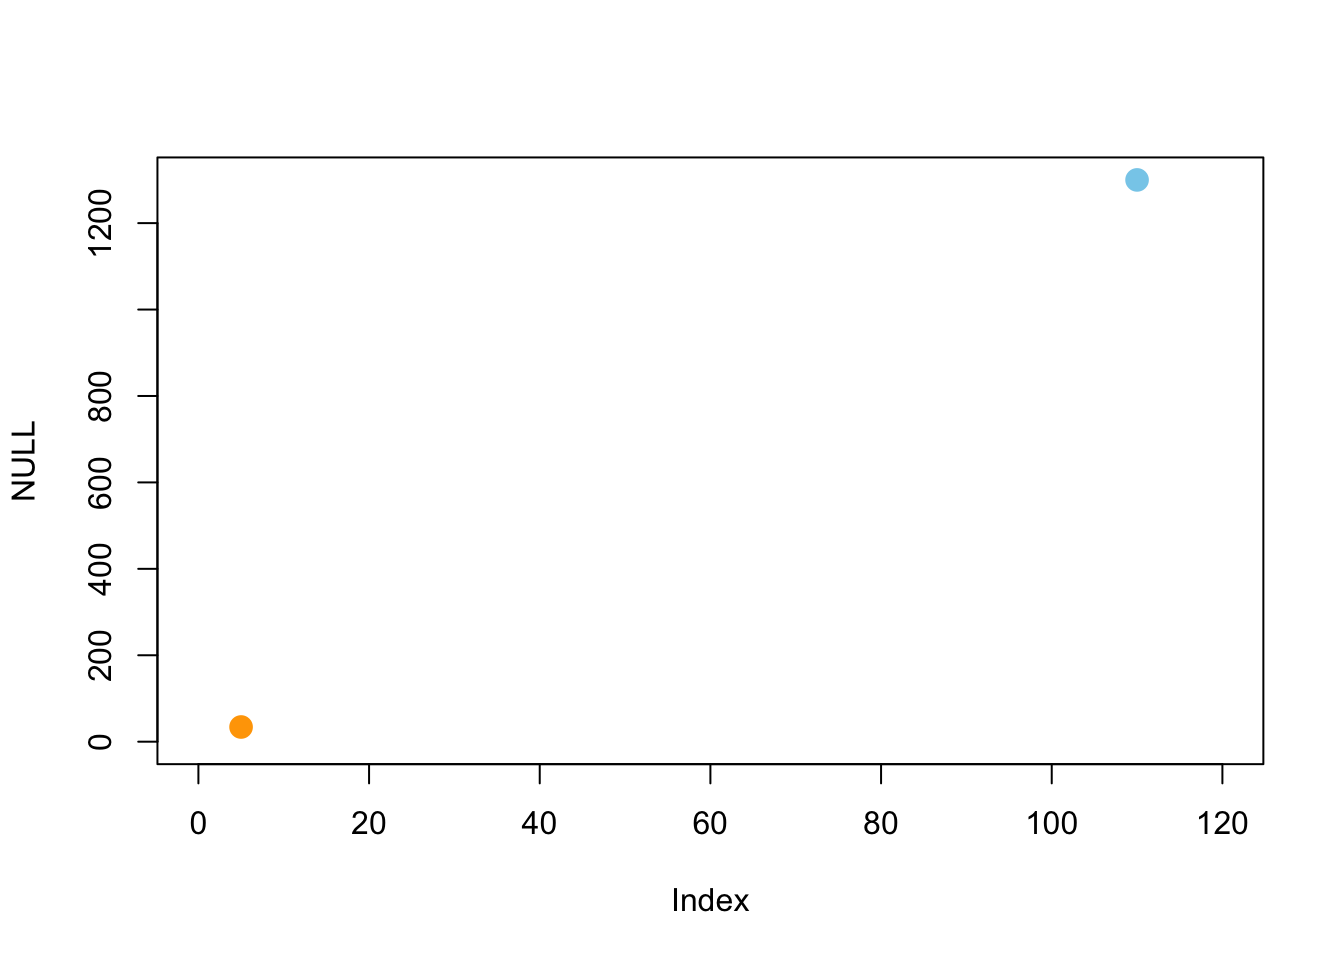
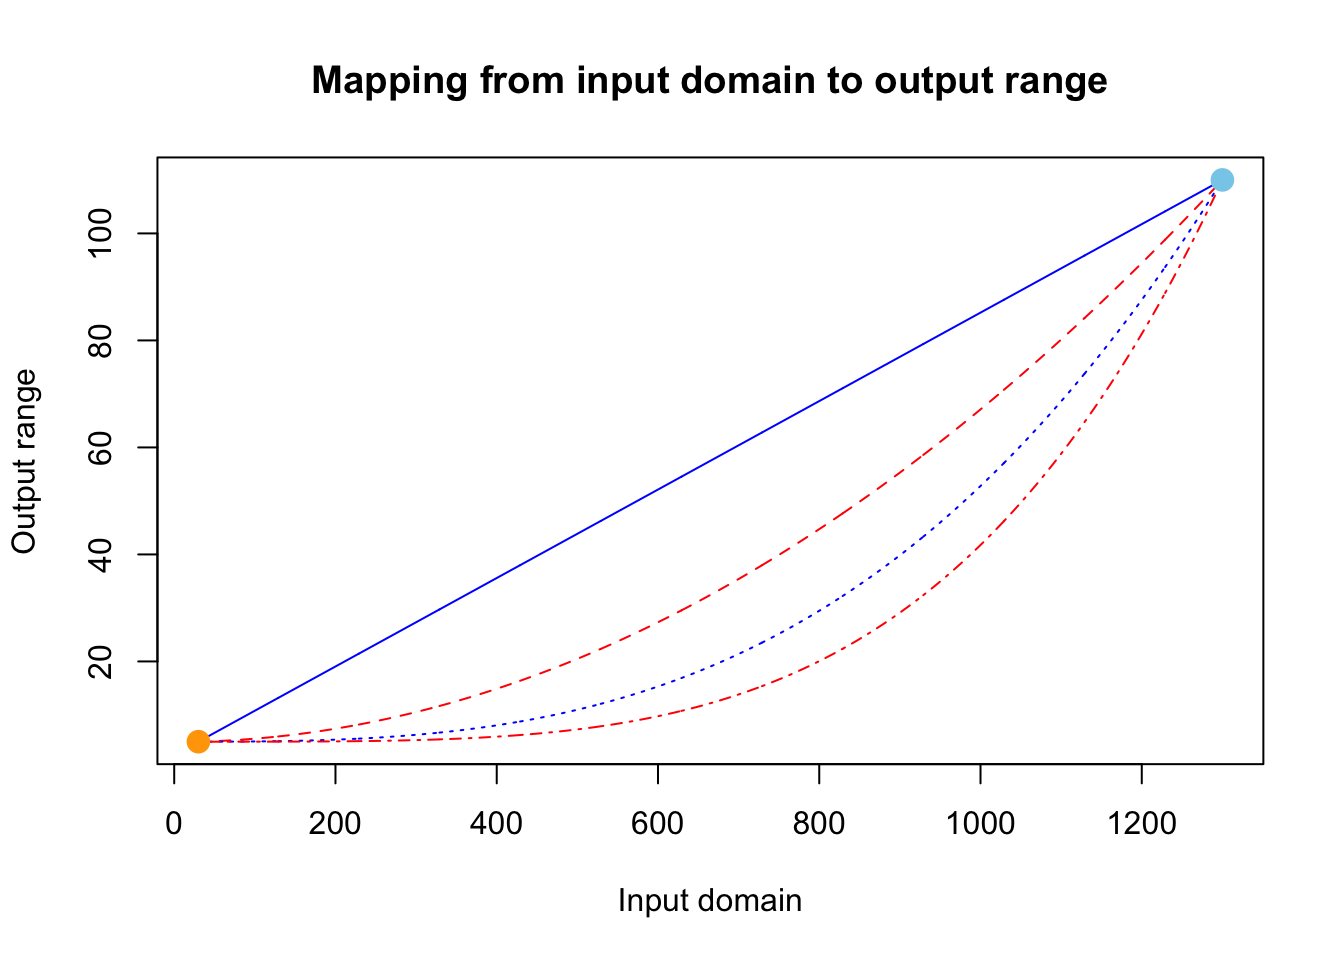
Rebuilding site Tue Sep  8 17:42:26 EDT 2020

diff --git a/public/en/2020/09/07/d3-scales/index.html b/public/en/2020/09/07/d3-scales/index.html
@@ -102,12 +102,12 @@
 <p>Before I move on, I’d like to specify two most important points I realized about D3 scales:</p>
 <ol style="list-style-type: decimal">
 <li><p>The essence of D3 scales is <strong><em>interpolation</em></strong> between two known points;</p></li>
-<li><p>D3 scales is supposed to capture <strong><em>relative positions</em></strong>, not <strong><em>absolute values</em></strong>.</p></li>
+<li><p>D3 scales are supposed to capture <strong><em>relative positions</em></strong>, not <strong><em>absolute values</em></strong>.</p></li>
 </ol>
 <div id="why-bother-using-d3-scales-couldnt-we-plot-it-directly" class="section level2">
 <h2>Why Bother Using D3 Scales? Couldn’t We Plot It Directly?</h2>
 <p>Well, the thing is, sometimes the numbers are so big that we don’t have enough pixels to plot them directly.</p>
-<p>For example, suppose we have this dataset, [34, 59, 109, 544, 1299], and we are going to plot a bar chart of this data. It would be best if we can draw it directly: five bars whose height (in pixels) is equal to the corresponding data value. The first bar will be 34 px tall, the second 59 px … the last bar 1299 px. For this dataset, it might be Okay to plot it this way. However, if we had another number, 999999, it would be impossible to draw a bar whose height is <code>999999px</code> simply because we don’t have such a big screen. That’s why we need to input domain and output range, both of which are basically intervals.</p>
+<p>For example, suppose we have this dataset, [34, 59, 109, 544, 1299], and we are going to <strong>plot a bar chart of this data</strong>. It would be best if we can draw it directly: five bars whose height (in pixels) is equal to the corresponding data value. The first bar will be 34 px tall, the second 59 px … and the last 1299 px. For this dataset, it might be Okay to plot it this way. However, if we had another number, 999999, it would be impossible to draw a bar whose height is <code>999999px</code> simply because we don’t have such a big screen. That’s why we need to input domain and output range, both of which are basically intervals.</p>
 </div>
 <div id="what-are-input-domain-and-output-range" class="section level2">
 <h2>What are Input Domain and Output Range?</h2>
@@ -117,18 +117,23 @@
 <div id="how-do-the-input-domain-and-output-range-work" class="section level2">
 <h2>How do the input domain and output range work?</h2>
 <p>What we are certain now is that the minimum (the starting point) in the input domain should also be the minimum (the starting point) of the output range. The same is for the maximum (the finishing point).</p>
+<p>That is to say, <span class="math inline">\(30\)</span> =&gt; <span class="math inline">\(5\)</span>, and <span class="math inline">\(1300\)</span> =&gt; <span class="math inline">\(110\)</span>.</p>
 <p>The situation here is depicted in the figure below:</p>
 <p><img src="/media/enblog/d3_scale_02.png" /></p>
 <p>The question is, what are the corresponding values of <span class="math inline">\(34\)</span>, <span class="math inline">\(59\)</span>, <span class="math inline">\(109\)</span>, and <span class="math inline">\(544\)</span>?</p>
-<p>We can solve this problem can drawing a coordinate, with the X-axis representing the input domain and the Y-axis representing the output range.</p>
-<pre class="r"><code>plot(NULL, xlim = c(0, 120), ylim = c(0, 1300))
-points(5, 34, col=&quot;orange&quot;, pch=19, cex=1.5)
-points(110, 1300, col=&quot;skyblue&quot;, pch=19, cex=1.5)</code></pre>
-<p><img src="/en/blog/2020-09-07-how-to-understand-d3-scales_files/figure-html/unnamed-chunk-1-1.png" width="672" /></p>
+<p>We can solve this problem by drawing a coordinate, with the X-axis representing the input domain and the Y-axis representing the output range.</p>
+<div class="figure" style="text-align: center"><span id="fig:input-output-mapping"></span>
+<img src="/en/blog/2020-09-07-how-to-understand-d3-scales_files/figure-html/input-output-mapping-1.png" alt="Mapping from input domain to output range" width="672" />
+<p class="caption">
+Figure 1: Mapping from input domain to output range
+</p>
+</div>
+<p>The two points we are certain are the orange one, which is [30, 5], and the blue one, which is [1300, 110]. Then the “mapping” is essentially we trying to interpolate from the orange point to the blue point. As we can see from Figure <a href="#fig:input-output-mapping">1</a> that there are so many different possible ways to interpolate between the two points.</p>
+<p>In our situation, we should</p>
 </div>
  
 
-<p style="color:#777;">Last modified on 2020-09-07</p>
+<p style="color:#777;">Last modified on 2020-09-08</p>
 
 </div>
 <a href="#top"><i class="fa fa-arrow-circle-up" style="font-size: 30px; color: black;"></i></a>  

diff --git a/content/en/blog/2020-09-07-how-to-understand-d3-scales.html b/content/en/blog/2020-09-07-how-to-understand-d3-scales.html
@@ -13,12 +13,12 @@ tags: []
 <p>Before I move on, I’d like to specify two most important points I realized about D3 scales:</p>
 <ol style="list-style-type: decimal">
 <li><p>The essence of D3 scales is <strong><em>interpolation</em></strong> between two known points;</p></li>
-<li><p>D3 scales is supposed to capture <strong><em>relative positions</em></strong>, not <strong><em>absolute values</em></strong>.</p></li>
+<li><p>D3 scales are supposed to capture <strong><em>relative positions</em></strong>, not <strong><em>absolute values</em></strong>.</p></li>
 </ol>
 <div id="why-bother-using-d3-scales-couldnt-we-plot-it-directly" class="section level2">
 <h2>Why Bother Using D3 Scales? Couldn’t We Plot It Directly?</h2>
 <p>Well, the thing is, sometimes the numbers are so big that we don’t have enough pixels to plot them directly.</p>
-<p>For example, suppose we have this dataset, [34, 59, 109, 544, 1299], and we are going to plot a bar chart of this data. It would be best if we can draw it directly: five bars whose height (in pixels) is equal to the corresponding data value. The first bar will be 34 px tall, the second 59 px … the last bar 1299 px. For this dataset, it might be Okay to plot it this way. However, if we had another number, 999999, it would be impossible to draw a bar whose height is <code>999999px</code> simply because we don’t have such a big screen. That’s why we need to input domain and output range, both of which are basically intervals.</p>
+<p>For example, suppose we have this dataset, [34, 59, 109, 544, 1299], and we are going to <strong>plot a bar chart of this data</strong>. It would be best if we can draw it directly: five bars whose height (in pixels) is equal to the corresponding data value. The first bar will be 34 px tall, the second 59 px … and the last 1299 px. For this dataset, it might be Okay to plot it this way. However, if we had another number, 999999, it would be impossible to draw a bar whose height is <code>999999px</code> simply because we don’t have such a big screen. That’s why we need to input domain and output range, both of which are basically intervals.</p>
 </div>
 <div id="what-are-input-domain-and-output-range" class="section level2">
 <h2>What are Input Domain and Output Range?</h2>
@@ -28,12 +28,17 @@ tags: []
 <div id="how-do-the-input-domain-and-output-range-work" class="section level2">
 <h2>How do the input domain and output range work?</h2>
 <p>What we are certain now is that the minimum (the starting point) in the input domain should also be the minimum (the starting point) of the output range. The same is for the maximum (the finishing point).</p>
+<p>That is to say, <span class="math inline">\(30\)</span> =&gt; <span class="math inline">\(5\)</span>, and <span class="math inline">\(1300\)</span> =&gt; <span class="math inline">\(110\)</span>.</p>
 <p>The situation here is depicted in the figure below:</p>
 <p><img src="/media/enblog/d3_scale_02.png" /></p>
 <p>The question is, what are the corresponding values of <span class="math inline">\(34\)</span>, <span class="math inline">\(59\)</span>, <span class="math inline">\(109\)</span>, and <span class="math inline">\(544\)</span>?</p>
-<p>We can solve this problem can drawing a coordinate, with the X-axis representing the input domain and the Y-axis representing the output range.</p>
-<pre class="r"><code>plot(NULL, xlim = c(0, 120), ylim = c(0, 1300))
-points(5, 34, col=&quot;orange&quot;, pch=19, cex=1.5)
-points(110, 1300, col=&quot;skyblue&quot;, pch=19, cex=1.5)</code></pre>
-<p><img src="/en/blog/2020-09-07-how-to-understand-d3-scales_files/figure-html/unnamed-chunk-1-1.png" width="672" /></p>
+<p>We can solve this problem by drawing a coordinate, with the X-axis representing the input domain and the Y-axis representing the output range.</p>
+<div class="figure" style="text-align: center"><span id="fig:input-output-mapping"></span>
+<img src="/en/blog/2020-09-07-how-to-understand-d3-scales_files/figure-html/input-output-mapping-1.png" alt="Mapping from input domain to output range" width="672" />
+<p class="caption">
+Figure 1: Mapping from input domain to output range
+</p>
+</div>
+<p>The two points we are certain are the orange one, which is [30, 5], and the blue one, which is [1300, 110]. Then the “mapping” is essentially we trying to interpolate from the orange point to the blue point. As we can see from Figure <a href="#fig:input-output-mapping">1</a> that there are so many different possible ways to interpolate between the two points.</p>
+<p>In our situation, we should</p>
 </div>

diff --git a/public/en/2020/09/05/yy/index.html b/public/en/2020/09/05/yy/index.html
@@ -197,7 +197,7 @@ Table of Contents:
 </section>
  
 
-<p style="color:#777;">Last modified on 2020-09-05</p>
+<p style="color:#777;">Last modified on 2020-09-08</p>
 
 </div>
 <a href="#top"><i class="fa fa-arrow-circle-up" style="font-size: 30px; color: black;"></i></a>  
